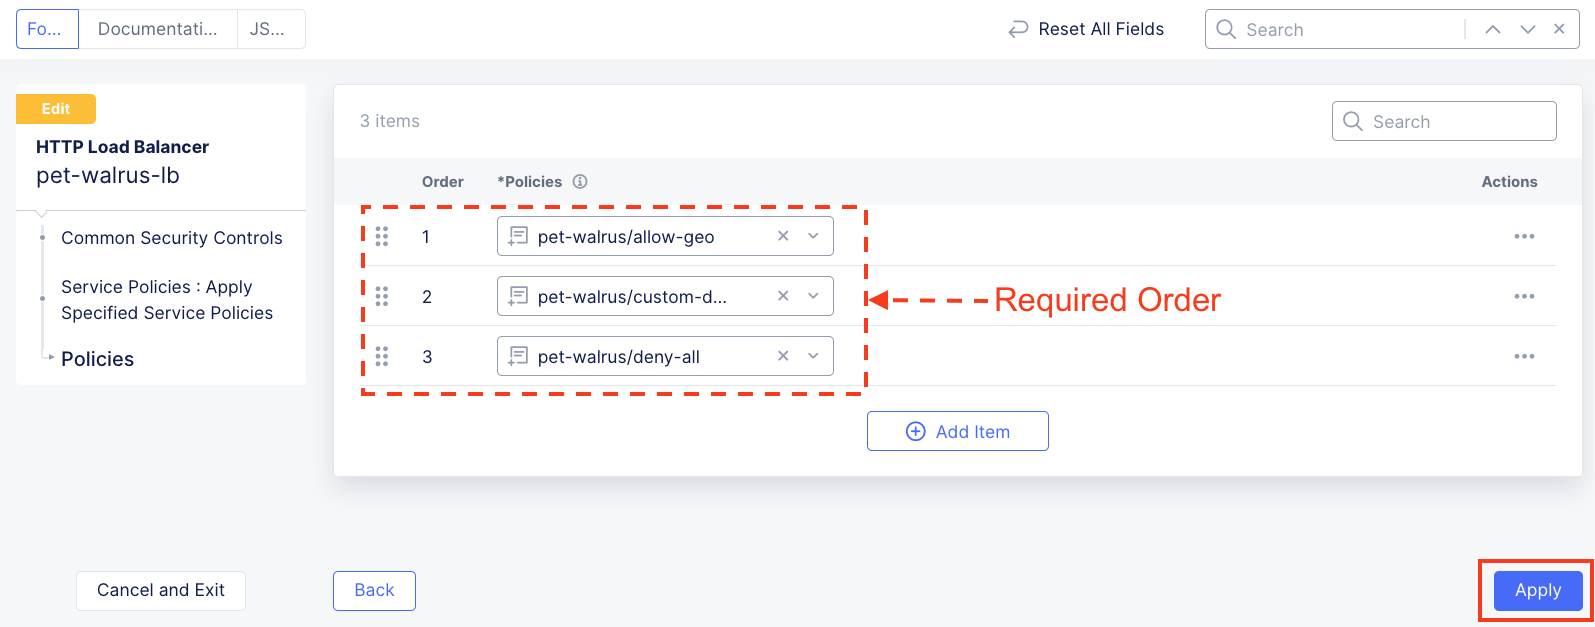
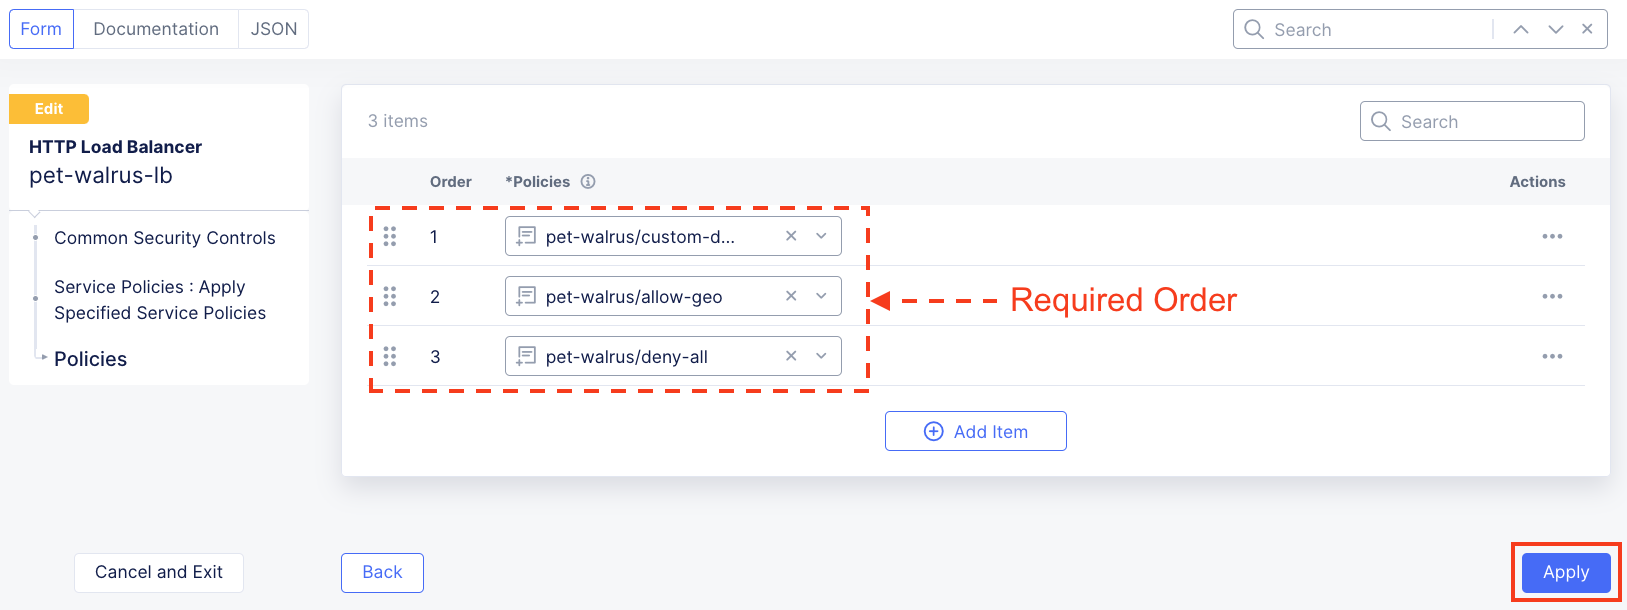
Class 3 updates

diff --git a/docs/class3/lab1.rst b/docs/class3/lab1.rst
@@ -38,7 +38,7 @@ and proceed to Task 1.
 Task 1: Exploring the F5 Distributed Console
 ~~~~~~~~~~~~~~~~~~~~~~~~~~~~~~~~~~~~~~~~~~~~
 
-The following steps will allow you to review the XC Load Balancer that was 
+The following steps will allow you to review the F5 Distributed Cloud Load Balancer that was 
 deployed and is currently advertising a globally available application. These steps 
 will allow you to review the application, its DNS entry and the Azure target that is 
 configured as the origin.
@@ -48,8 +48,8 @@ configured as the origin.
    that was configured for you via automation.  Select **Web App & API Protection**. 
 
 #. On the **Web App & API Protection** page, note the identifier of your namespace.  The namespace
-   will be follow a format of *adjective-animal*.  In this guide, the namespace is pet-walrus is an 
-   example.  Your namespace will be different.  In the left-hand navigation expand **Manage** and 
+   will be follow a format of *adjective-animal*.  The example in this guide uses the namespace 'pet-walrus'.  
+   Your namespace will be different.  In the left-hand navigation expand **Manage** and 
    click **Load Balancers >  Origin Pools**
 
    |lab001| 
@@ -81,7 +81,7 @@ configured as the origin.
    |lab008|
 
 
-#. Next, let's return to the F5 Distributed Cloud console and take a look at the F5 XC load balancer 
+#. Next, let's return to the F5 Distributed Cloud console and take a look at the F5 Distributed Cloud Load Balancer 
    configured for you. In the left-hand navigation expand **Manage** and click **Load Balancers > HTTP Load Balancers**
 
 #. In the resulting screen expand the Actions Menu and click **Manage Configuration** for 
@@ -96,7 +96,7 @@ configured as the origin.
 
 #. Using the left-hand navigation and in the sections as shown, review the
    following data. Values where **<namespace>** *adjective-animal* is represented, the configuration
-   will be the name of your provisioned namespace.  Note the FQDN of the F5 XC load balancer.  
+   will be the name of your provisioned namespace.  Note the FQDN of the F5 Distributed Cloud load balancer.  
 
 
    * **Metadata**  *<namespace>-lb*
@@ -111,7 +111,7 @@ configured as the origin.
    |lab011| 
   
 
-#. Using your web browser, access the application via the F5 XC FQDN.  Click on **Menu > Header**
+#. Using your web browser, access the application via the F5 Distributed Cloud FQDN.  Click on **Menu > Header**
 
 #. Note that the Remote Address has changed as well as the presence of a new X-Forwarded-For header.  
    The client information should have changed as you are now connecting first through the F5 ADN Regional Edge 
@@ -134,10 +134,9 @@ would also like to block known bad IP address coming from TOR Networks and Spam 
 
 Task 2: Negative Enforcement  
 ~~~~~~~~~~~~~~~~~~~~~~~~~~~~
-The following lab tasks will guide you through the configuration of various The following lab tasks will guide you the 
-configuration of various Service Policies which can be used to implement a variety of security controls. The goals of 
-this section of the lab will be to create specific policies to enforce negative enforcement rules based on geo-location, 
-IP addresses, and known bad IP ranges.
+The following lab tasks will guide you through the configuration of various Service Policies which can be used to implement a variety 
+of security controls. The goals of this section of the lab will be to create specific policies to enforce negative enforcement rules 
+based on geo-location, IP addresses, and known bad IP ranges.
 
 #. Returning to the F5 Distributed Cloud Console, you will edit the F5 HTTP Load Balancer for your application.  From the
    **Web App & API Protection** workspace, Click **Load Balancers > HTTP Load Balancers**.
@@ -155,7 +154,7 @@ IP addresses, and known bad IP ranges.
 
 #. Click the dropdown for **IP Reputation** and select **Enable**.
 
-#. From the IP Threat Categories, select **Spam Sources** and **Tor Proxy**.  
+#. From the List of IP Threat Categories to choose, select **Spam Sources** and **Tor Proxy**.  
 
    |lab016|
 
@@ -180,12 +179,6 @@ IP addresses, and known bad IP ranges.
    |lab019|
  
    |lab020|
-
-Narrative Check
----------------
-
-ACME Corps' application is now protected against known bad IPs based on threat categories and also with F5 Distributed 
-Cloud Threat Mesh solution.  Your task will now be to proceed to block traffic coming from Fiji.
 
 #. Within Web App & API Protection, under the Manage section in the left-hand navigation menu, click Service Policies. 
    In the flyout menu, click the Service Policies link.
@@ -239,6 +232,12 @@ Cloud Threat Mesh solution.  Your task will now be to proceed to block traffic c
    all other traffic is denied producing the 403.  Let's review F5 Distributed Cloud to review the observability capabilities.
 
    |lab024|
+
+Narrative Check
+---------------
+
+ACME Corps' application is now protected against known bad IPs based on threat categories and also with F5 Distributed 
+Cloud Threat Mesh solution.  Your task will now be to proceed to block traffic coming from Fiji.
 
 Task 3: Observability  
 ~~~~~~~~~~~~~~~~~~~~~
@@ -315,11 +314,11 @@ You will review the performance and security observability capabilities of the F
    |lab033|
 
 #. Review the **Security Dashboard** display (you may have limited data) and identify that Service Policy events have increased.
-   NOTE: you may need to update the variable time period,
+   NOTE: You may need to update the variable time period.
 
    |lab034|
 
-#. Scroll to **Load Balancers** section and click the **<namespace>-lb**  object.
+#. Scroll to **Application Delivery** section and click the **<namespace>-lb**  object.
 
    |lab035|
 
@@ -386,7 +385,7 @@ You will review the performance and security observability capabilities of the F
 
 Narrative Check
 -----------------
-You have now completed your first service policy deployment on F5 XC.  This policy can be re-used for
+You have now completed your first service policy deployment on F5 Distributed Cloud.  This policy can be re-used for
 other applications in the ACME environment as all new load balancers deployed in this namespace will by default be 
 blocking traffic to Fiji. IP address blocking performed based on categories or from the F5 ThreatMesh database 
 can be configured on a per application basis.  You also interacted with the F5 Distributed Cloud AI Assistant to help 

diff --git a/docs/class3/lab3.rst b/docs/class3/lab3.rst
@@ -10,9 +10,9 @@ Lab 3: Zero Day Exploit Response with Rate Limiting and Custom Service Policies
 **Narrative:** 
 
 You've been called into an all-hands incident response conference call.  There is a zero-day exploit specifically
-targeting one of ACME Corp's application.  The attacks are coming from multiple IP addresses so a simple IP shun 
-will not be effective.  The attacks are compomising the application as valid users are getting poor performance
-as your application infrastructure is being overloaded.  
+targeting one of ACME Corp's application.  The attacks are coming from multiple IP addresses that are dynamically 
+changin so a simple IP shun will not be effective.  The attacks are compomising the application as valid users 
+are getting poor performance as your application infrastructure is being overloaded.  
 
 After reviewing the data, the application team has asked if you can deploy Rate Limiting to help ACME Corp limit 
 the load that each individual user can request.  Based on the discoveries made, there are two rate limiting rules 
@@ -36,7 +36,7 @@ engaged.  This will demonstrate that any user can request data from the applicat
 #. In your web browser, enable Developer Tools and browse to the ACME Corp application.  
    Chrome is shown in this example (F12)  
 
-   **http://<namespace>.lab-sec.f5demos.com/ratelimit.php**  
+   **https://<namespace>.lab-sec.f5demos.com/ratelimit.php**  
 
 #. Refresh the page multiple times and notice you do not receive any errors nor blocked messages.  
    The browser's developer tool will display multiple HTTP 200 OK responses.  Let's change that behavior.
@@ -171,11 +171,11 @@ each client can make while ACME corp works to protect itself from the zero-day.
 #. Observe that **HTTP Path** now also appears **Configured**. Click **Apply** on the 
    **Rate Limiter Policy** window. 
 
-#. Observe the added rate limit rule and click **Add Item** to build another rule.
-
    |lab021|
 
    |lab022|
+
+#. Observe the added rate limit rule and click **Add Item** to build another rule.
 
 #. In the **Rate Limiter Policy** window within the **Metadata** section input **bypass** into 
    the **Name** field
@@ -224,7 +224,8 @@ each client can make while ACME corp works to protect itself from the zero-day.
 #. Observe the **Request Rate Limiter** options for number of requests, the Per Period interval 
    and the Burst Multiplier.
 
-#. Also observe that IPs can be allowed without Rate Limiting policies being applied.
+#. Also observe that IPs can be allowed without Rate Limiting policies being applied.  In the lab "No IP Allowed" is selected.
+   This ensures that rate limiting will be applied to all IP addresses that make requests.
 
 #. Click **Apply** to add the **Rate Limit Configuration** to the application Load Balancer.
 
@@ -239,6 +240,7 @@ each client can make while ACME corp works to protect itself from the zero-day.
 #. Once at the bottom of the **HTTP Load Balancer** configuration, click **Save and Exit**. 
 
    |lab032|
+   
    |lab033|
 
 Task 3: Testing Rate Limiting
@@ -247,6 +249,7 @@ Task 3: Testing Rate Limiting
 Now we will retest access to our website and see if our experience has indeed changed.
 
 #. In your local web browser access the following link, replacing namespace with your own:
+
     **https://<namespace>.lab-sec.f5demos.com/ratelimit.php** 
 
 #. Refresh the page multiple times and quickly... did you experience a different result? 
@@ -274,7 +277,7 @@ You have now configured rate limiting on the ACME Corp application.  This will s
 from making multiple requests to your application.  
 
 Following your rate limiting deployment, you hop back on the all-hands call and find out that the 
-security and application team have uncovered the attack methodology by reviewing applicaiton logs.  
+security and application team have uncovered the attack methodology by reviewing application logs.  
 First the attackers are using CURL to launch their attacks.  
 
 Let's focus on building that custom policy to close the vulnerability that the attackers are using.  
@@ -437,11 +440,11 @@ a specific page of the application that is vulnerable to close the Zero Day expl
 
 #. Use the drop-down as shown and select **<namespace>/custom-deny** from the available Service Policy list.
 
-#. Click the six squares icon to drag **<namespace>/custom-deny** into the first position in policy order as 
-   shown then click **Apply**. 
-
    |lab062|
 
+#. Click the six squares icon to drag **<namespace>/custom-deny** into the first position in policy order as 
+   shown then click **Apply**. 
+   
    |lab063|
 
    |lab064|

diff --git a/docs/class3/lab2.rst b/docs/class3/lab2.rst
@@ -22,6 +22,8 @@ Task 1: Reviewing Current Access Trends
 #. Return to the F5 Distributed Cloud Console - **Web Application & API Protection > Overview > Performance** 
    Dashboard.
 
+#. Scroll down and select the load balancer.
+
 #. Update the variable time filter. 
 
 #. Using the horizontal navigation, click **Requests**.  
@@ -83,7 +85,7 @@ In this task you will modify the HTTP load balancer to utilize a new set of serv
    |lab013|
 
 #. Let's use the F5 Distributed Cloud AI Assistant to determine if it matched the correct policy.  Return to the F5 Distributed 
-   Cloud SAAS console.  Click the AI Assistant icon in the upper-right hand corner. 
+   Cloud console.  Click the AI Assistant icon in the upper-right hand corner. 
 
    |lab014|
 
@@ -93,6 +95,7 @@ In this task you will modify the HTTP load balancer to utilize a new set of serv
 #. Be sure to edit the prompt with the support ID from your block page.  The support ID is equivalent to the request id.
 
 #. The AI Assistant will confirm that we did match the **deny-all** rule and denied our request.  Minimize the AI Assistant
+   
    |lab015|
 
    |lab016|
@@ -143,7 +146,8 @@ Task 3: Create specific rules define allowed traffic for positive enforcement
 
    |lab027|
 
-#. Browse to the ACME Corp application at *<namespace>.lab-sec.f5demos.com*.  Why are you seeing a 403 error?
+#. Browse to the ACME Corp application at *<namespace>.lab-sec.f5demos.com*.  Why are you seeing a 403 error?  Service Policies are enforced based on 
+   the order of their rules.  
 
 #. Lets return to the specific Service Policy applied to the HTTP load balancer.  Note the order of the Service Policies.  The deny-all policy is
    listed first.   Service Policies must be ordered correctly in a order to process traffic as intended.
